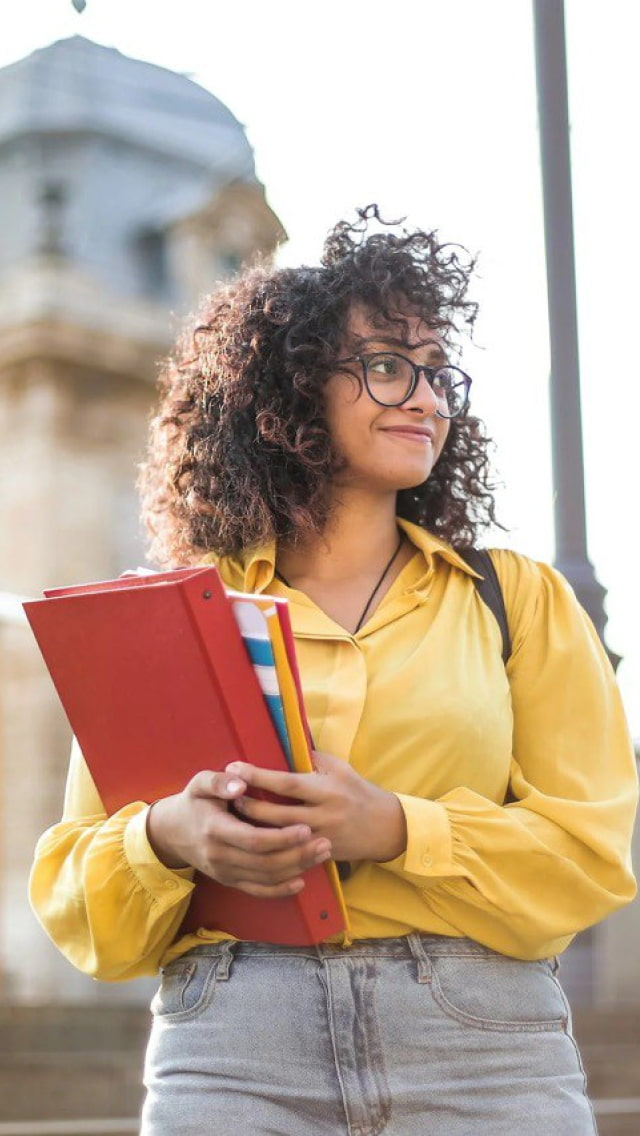
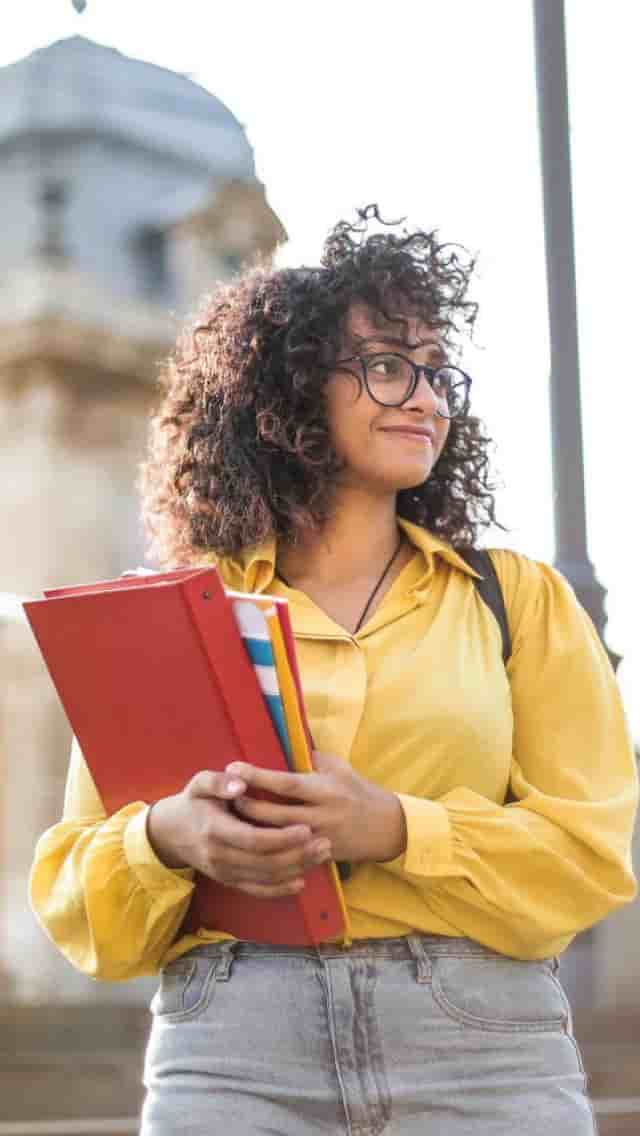
add img mobile hero

diff --git a/source/index.html b/source/index.html
@@ -99,11 +99,11 @@
                   <source type="image/webp" media="(max-width: 767px)"
                     srcset="img/hero/student-mobile.webp 1x, img/hero/student-mobile@2x.webp 2x">
                   <source type="image/jpg" media="(max-width: 767px)"
-                    srcset="img/hero/student-mobile.webp 1x, img/hero/student-mobile@2x.webp 2x">
+                    srcset="img/hero/student-mobile.jpg 1x, img/hero/student-mobile@2x.jpg 2x">
                   <source type="image/webp" media="(max-width: 1439px)"
                     srcset="img/hero/student-tablet.webp 1x, img/hero/student-tablet@2x.webp 2x">
                   <source type="image/jpg" media="(max-width: 1439px)"
-                    srcset="img/hero/student-tablet.webp 1x, img/hero/student-tablet@2x.webp 2x">
+                    srcset="img/hero/student-tablet.jpg 1x, img/hero/student-tablet@2x.jpg 2x">
                   <source type="image/webp" srcset="img/hero/student.webp 1x,
                   img/hero/student@2x.webp 2x">
                   <img src="img/hero/student.jpg" width="1440" height="800" srcset="img/hero/student@2x.jpg 2x"
@@ -161,11 +161,11 @@
                   <source type="image/webp" media="(max-width: 767px)"
                     srcset="img/hero/family-mobile.webp 1x, img/hero/family-mobile@2x.webp 2x">
                   <source type="image/jpg" media="(max-width: 767px)"
-                    srcset="img/hero/family-mobile.webp 1x, img/hero/family-mobile@2x.webp 2x">
+                    srcset="img/hero/family-mobile.jpg 1x, img/hero/family-mobile@2x.jpg 2x">
                   <source type="image/webp" media="(max-width: 1439px)"
                     srcset="img/hero/family-tablet.webp 1x, img/hero/family-tablet@2x.webp 2x">
                   <source type="image/jpg" media="(max-width: 1439px)"
-                    srcset="img/hero/family-tablet.webp 1x, img/hero/family-tablet@2x.webp 2x">
+                    srcset="img/hero/family-tablet.jpg 1x, img/hero/family-tablet@2x.jpg 2x">
                   <source type="image/webp" srcset="img/hero/family.webp 1x,
                   img/hero/family@2x.webp 2x">
                   <img src="img/hero/family.jpg" width="1440" height="800" srcset="img/hero/family@2x.jpg 2x"
@@ -223,11 +223,11 @@
                   <source type="image/webp" media="(max-width: 767px)"
                     srcset="img/hero/people-mobile.webp 1x, img/hero/people-mobile@2x.webp 2x">
                   <source type="image/jpg" media="(max-width: 767px)"
-                    srcset="img/hero/people-mobile.webp 1x, img/hero/people-mobile@2x.webp 2x">
+                    srcset="img/hero/people-mobile.jpg 1x, img/hero/people-mobile@2x.jpg 2x">
                   <source type="image/webp" media="(max-width: 1439px)"
                     srcset="img/hero/people-tablet.webp 1x, img/hero/people-tablet@2x.webp 2x">
                   <source type="image/jpg" media="(max-width: 1439px)"
-                    srcset="img/hero/people-tablet.webp 1x, img/hero/people-tablet@2x.webp 2x">
+                    srcset="img/hero/people-tablet.jpg 1x, img/hero/people-tablet@2x.jpg 2x">
                   <source type="image/webp" srcset="img/hero/people.webp 1x,
                   img/hero/people@2x.webp 2x">
                   <img src="img/hero/people.jpg" width="1440" height="800" srcset="img/hero/people@2x.jpg 2x"
